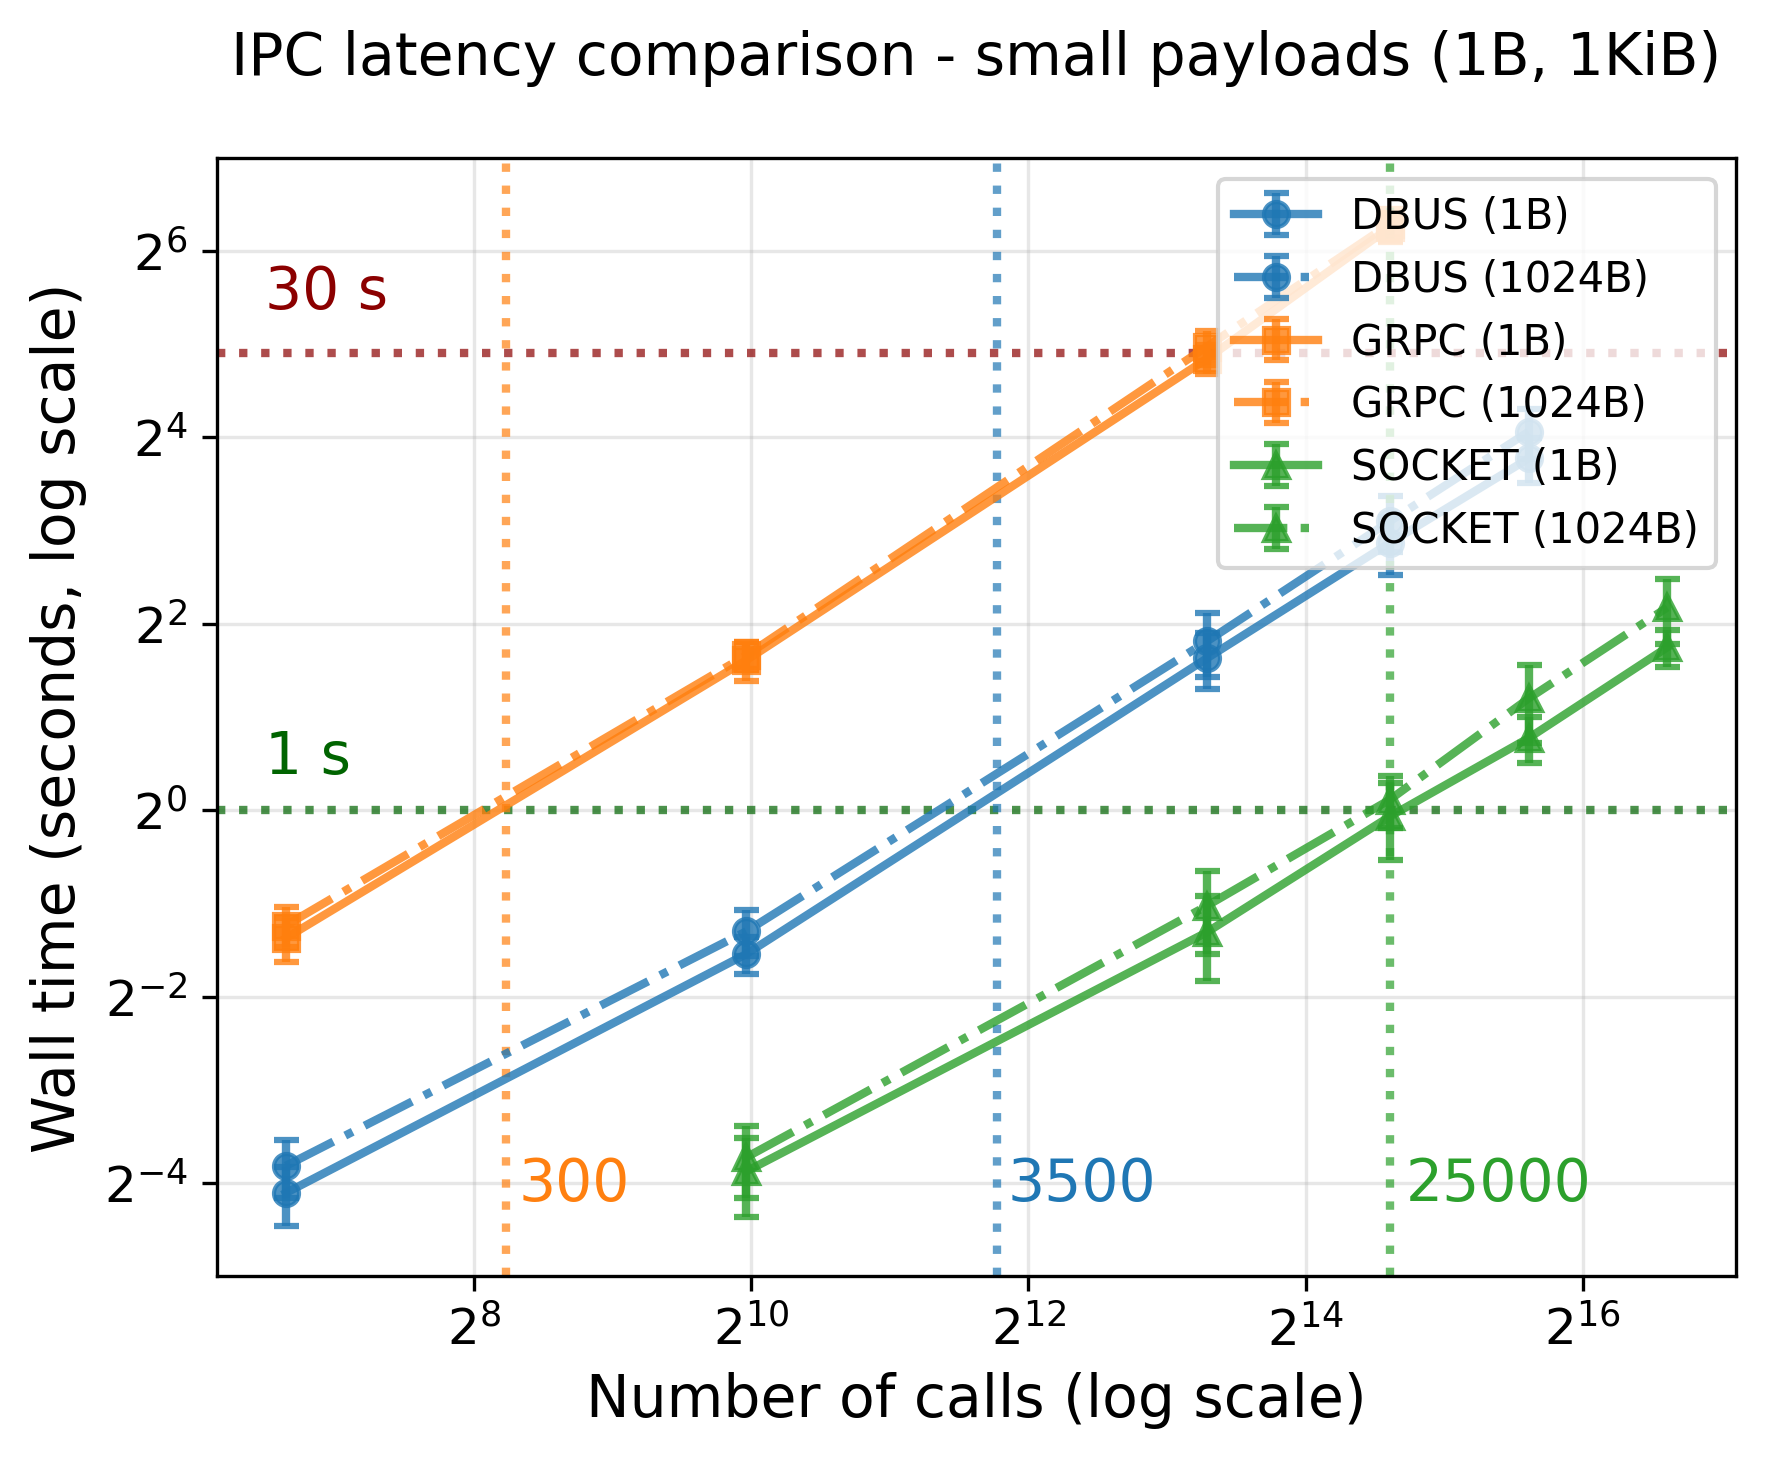
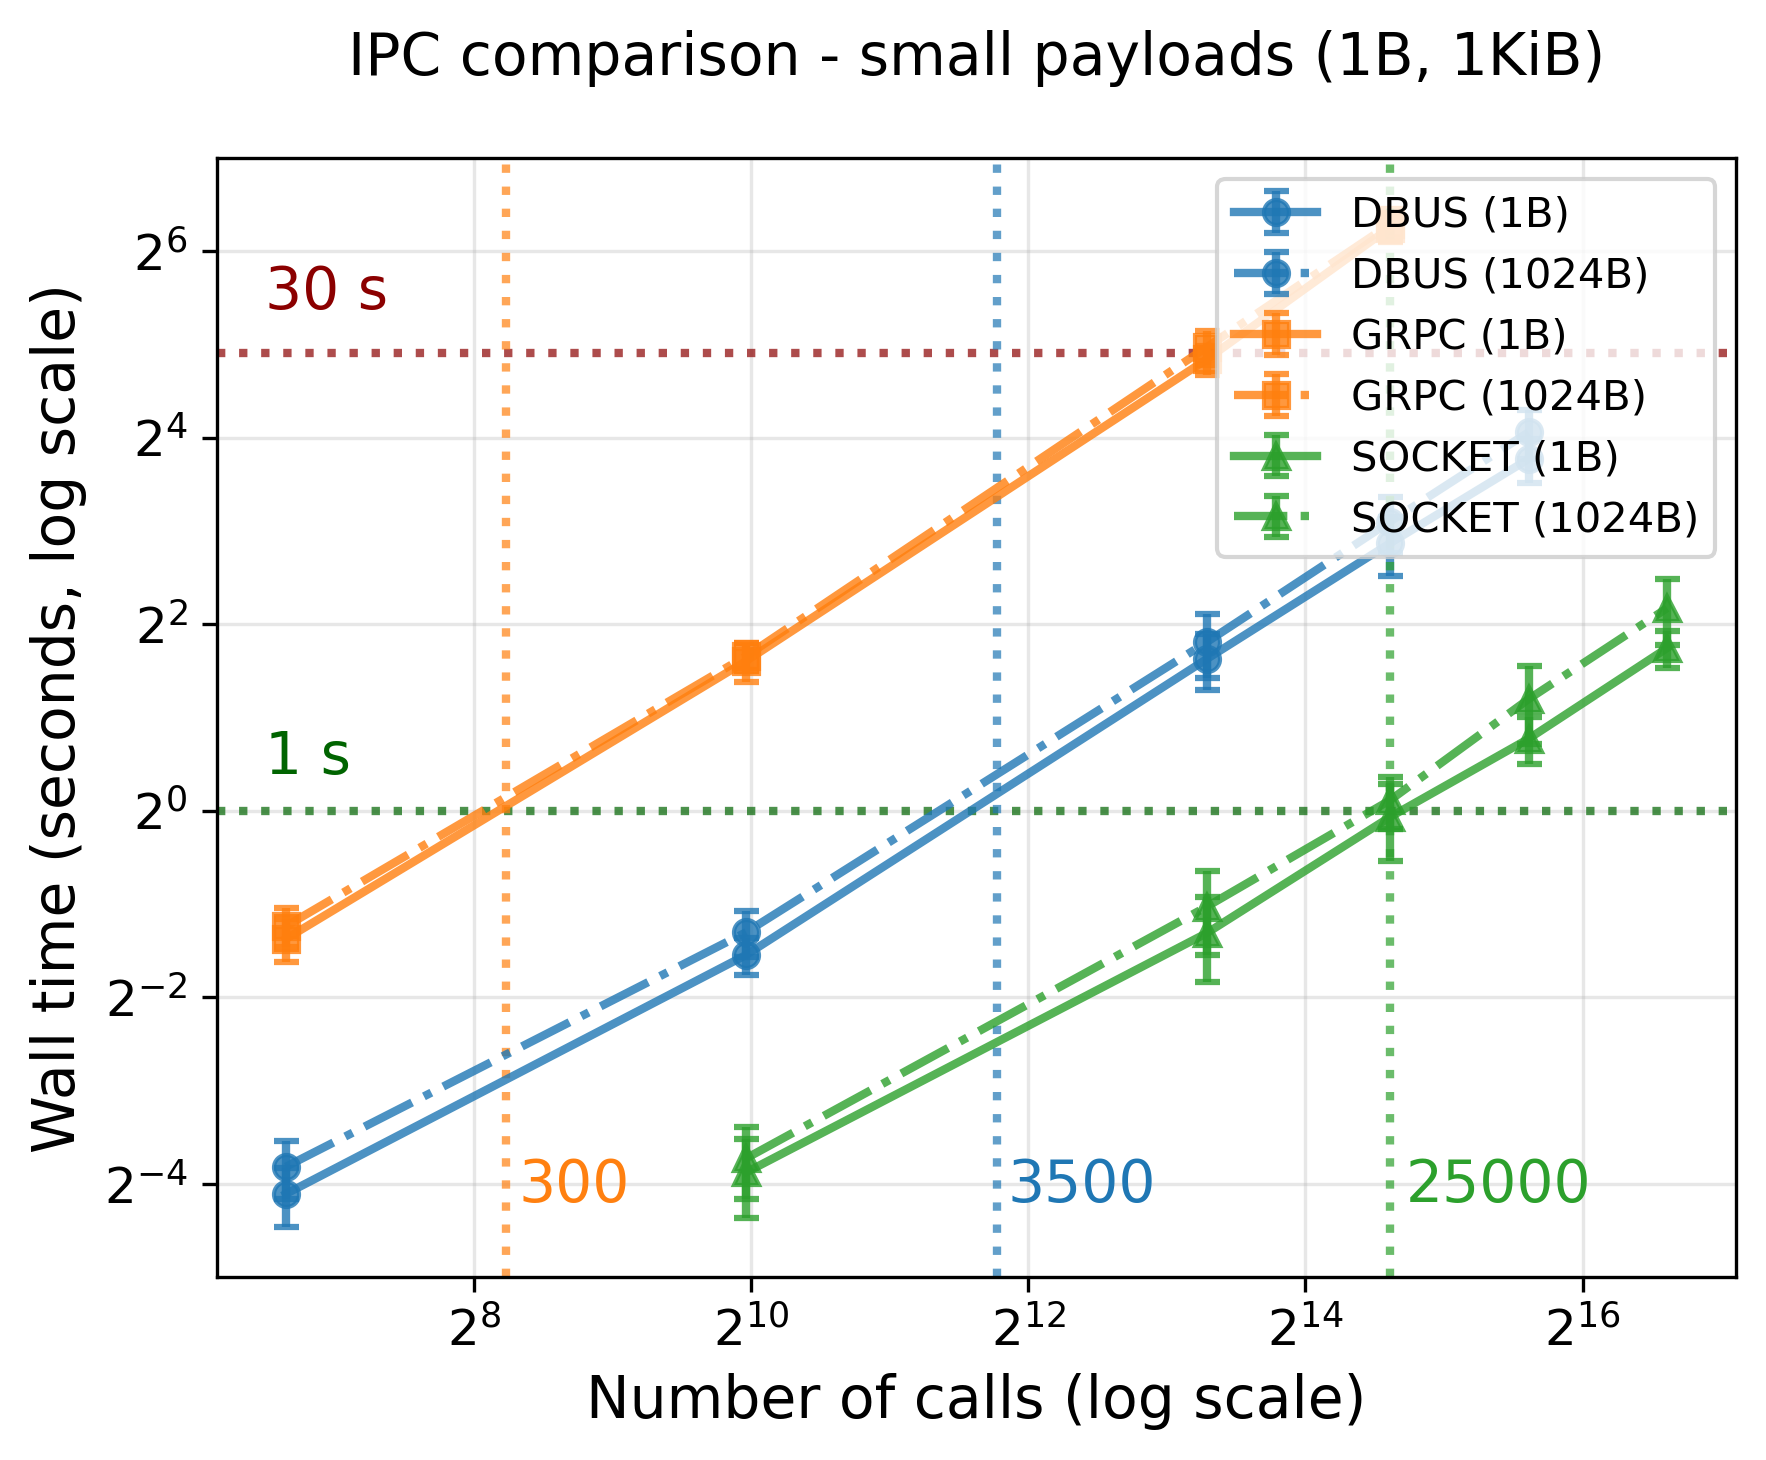
redraw

Changed region(s): [[0.6852, 0.1234, 0.9655, 0.401], [0.1246, 0.0, 0.9655, 0.0617]]

diff --git a/benchmark-results/visualize.py b/benchmark-results/visualize.py
@@ -226,7 +226,7 @@ def main():
     payload_sizes = [1, 1024]  # Small and large regular payloads
     create_comparison_plot(
         regular_data,
-        "IPC latency comparison - small payloads (1B, 1KiB)",
+        "IPC comparison - small payloads (1B, 1KiB)",
         "ipc-comparison-small.png",
         payload_sizes,
         is_large=False
@@ -236,7 +236,7 @@ def main():
     large_payload_sizes = [10485760, 31457280]  # 10MB, 30MB
     create_comparison_plot(
         large_data,
-        "IPC throughput comparison - large payloads (10,30MiB)",
+        "IPC comparison - large payloads (10,30MiB)",
         "ipc-comparison-large.png",
         large_payload_sizes,
         is_large=True
